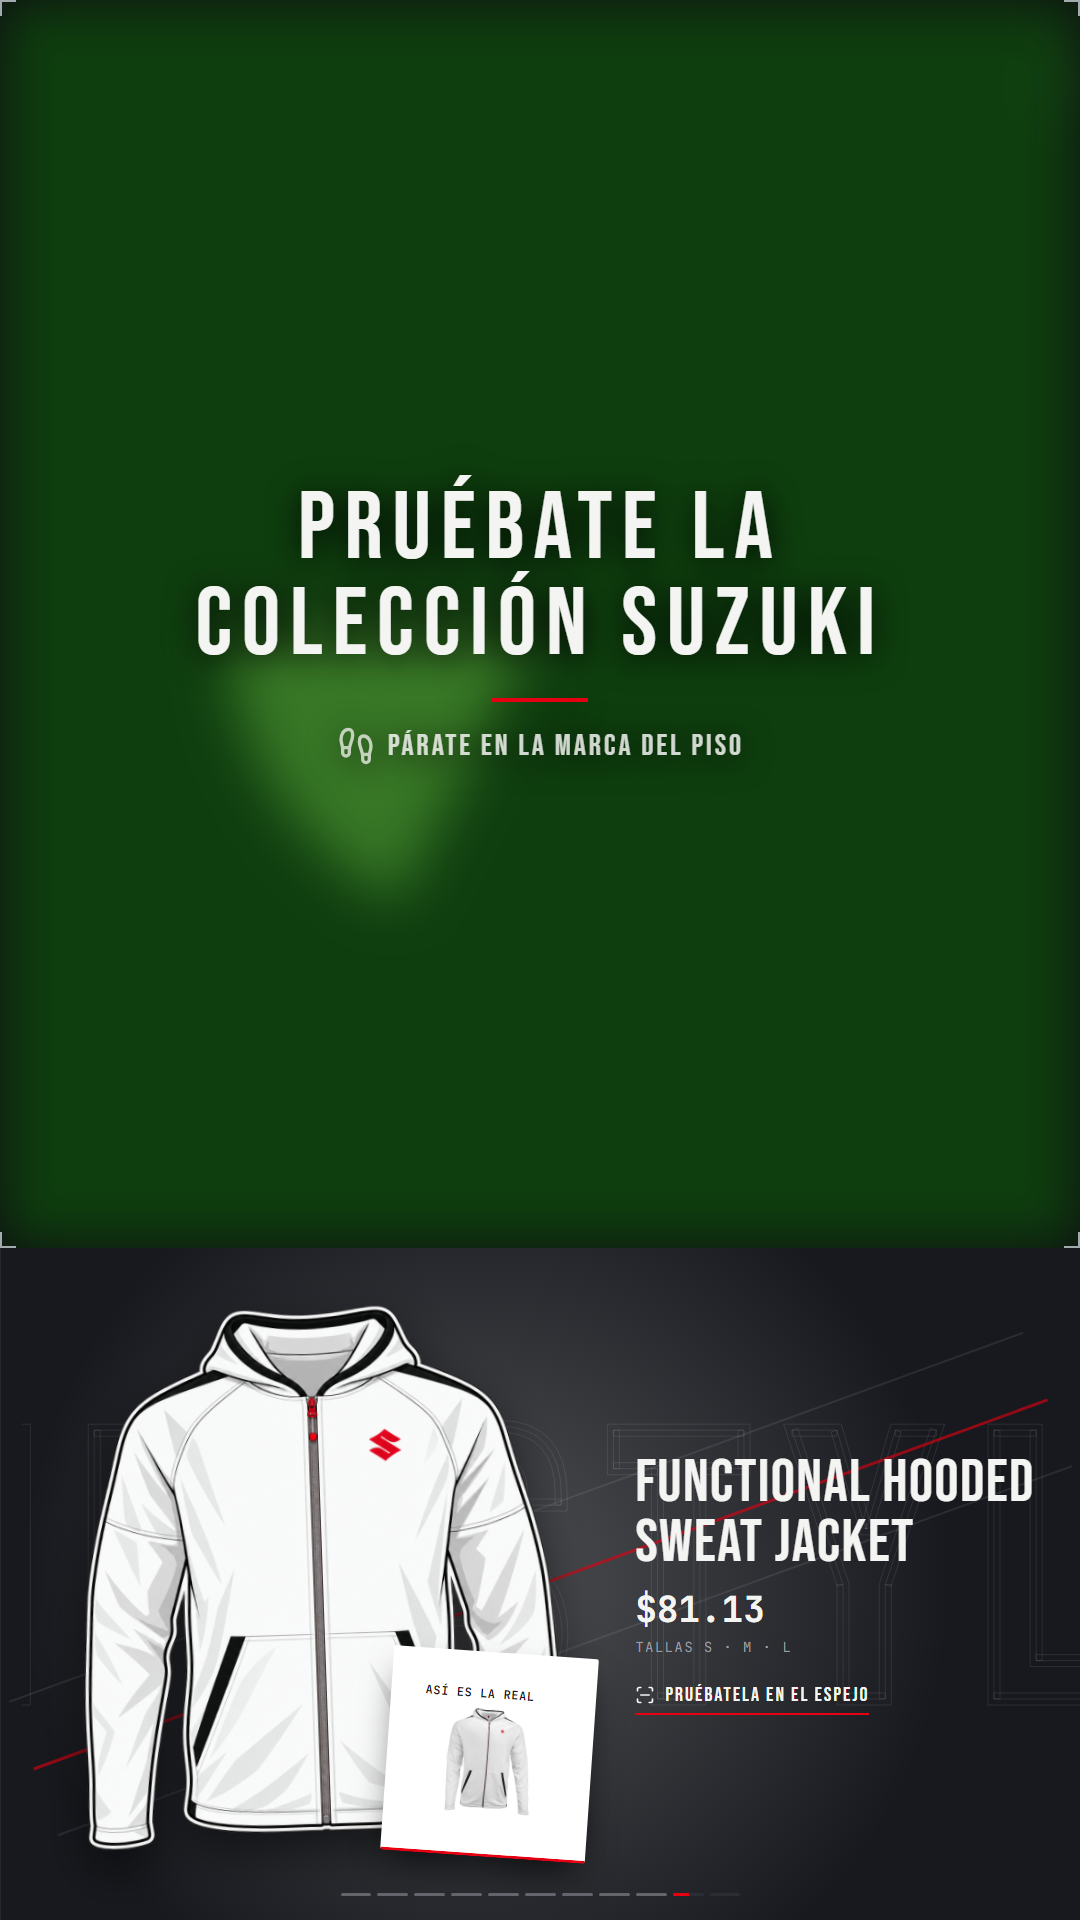
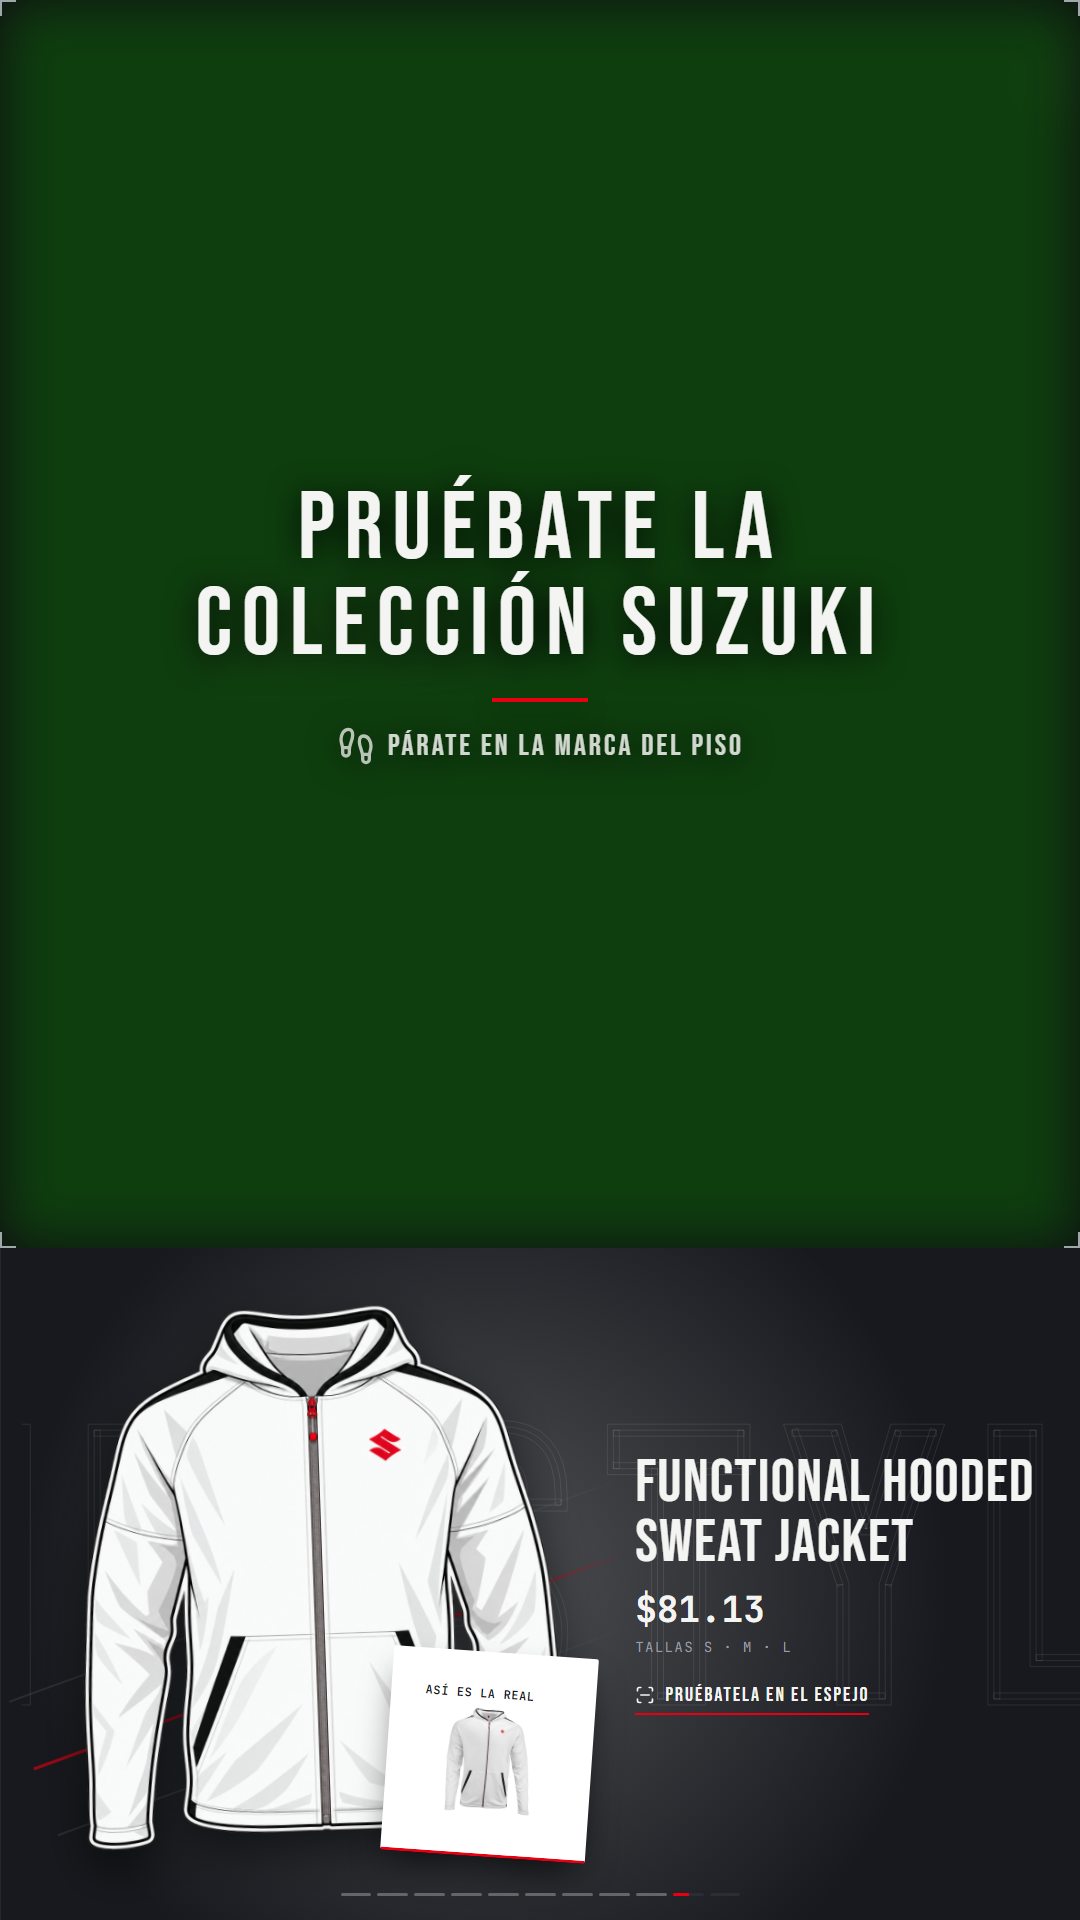
fix(kiosk): sincronizar foto de variante, optimizar precarga y refinar mascara y resumen

Changed region(s): [[0.2139, 0.3125, 0.4889, 0.4688]]

diff --git a/src/components/kiosk/showcase/ShowcaseSlide.tsx b/src/components/kiosk/showcase/ShowcaseSlide.tsx
@@ -26,10 +26,10 @@ export function ShowcaseSlide({ slide }: ShowcaseSlideProps) {
   const shouldReduceMotion = useReducedMotion();
   const mode = useLayoutStore((s) => s.mode);
 
-  const { garment, illustrations, photo, colorCount } = slide;
+  const { garment, illustrations, photos, colorCount } = slide;
   const hasIllustration = illustrations.length > 0;
 
-  // Handle multi-variant illustration cycling (e.g., 990F0-BKQJ5)
+  // Handle multi-variant cycling (e.g., 990F0-BKQJ5)
   const [variantIdx, setVariantIdx] = useState(0);
 
   useEffect(() => {
@@ -39,6 +39,9 @@ export function ShowcaseSlide({ slide }: ShowcaseSlideProps) {
     }, 1600);
     return () => clearInterval(interval);
   }, [shouldReduceMotion, illustrations.length]);
+
+  // Current photo for the active variant
+  const currentPhoto = photos[variantIdx] ?? photos[0];
 
   // Layer A: Background Glow Color Calculation
   const firstColor = garment.colors?.[0];
@@ -55,6 +58,11 @@ export function ShowcaseSlide({ slide }: ShowcaseSlideProps) {
     !firstColor || luminance < 0.12 || isReddish
       ? 'rgba(201, 206, 214, 0.12)'
       : `${firstColor}40`;
+
+  const stripesMask =
+    mode === 'portrait'
+      ? 'linear-gradient(90deg, #000 0%, #000 45%, transparent 58%)'
+      : 'linear-gradient(180deg, #000 0%, #000 45%, transparent 58%)';
 
   return (
     <motion.div
@@ -105,10 +113,14 @@ export function ShowcaseSlide({ slide }: ShowcaseSlideProps) {
         </span>
       </motion.div>
 
-      {/* Layer C: Three Diagonal Racing Stripes */}
+      {/* Layer C: Three Diagonal Racing Stripes with Fade Mask */}
       <div
         aria-hidden="true"
         className="absolute inset-0 pointer-events-none select-none overflow-hidden flex items-center justify-center"
+        style={{
+          maskImage: stripesMask,
+          WebkitMaskImage: stripesMask,
+        }}
       >
         <div className="w-[180%] h-36 flex flex-col justify-between -rotate-[20deg] opacity-70">
           <div className="h-[2px] w-full bg-[#C9CED6]/15" />
@@ -193,7 +205,9 @@ export function ShowcaseSlide({ slide }: ShowcaseSlideProps) {
                             : { rotateY: 90, opacity: 0 }
                         }
                         animate={
-                          shouldReduceMotion ? { opacity: 1 } : { rotateY: 0, opacity: 1 }
+                          shouldReduceMotion
+                            ? { rotateY: 0, opacity: 1 }
+                            : { rotateY: 0, opacity: 1 }
                         }
                         exit={
                           shouldReduceMotion
@@ -215,7 +229,7 @@ export function ShowcaseSlide({ slide }: ShowcaseSlideProps) {
                 </motion.div>
 
                 {/* Layer E: Real Photo Card Superimposed on bottom-right */}
-                {(photo.thumb || photo.full) && (
+                {currentPhoto?.thumb && (
                   <motion.div
                     className="absolute bottom-[2%] right-[2%] w-[36%] aspect-square bg-white rounded-sm p-[6%] shadow-[0_18px_36px_-10px_rgba(0,0,0,0.6)] border-b-[3px] border-b-brand-red flex flex-col justify-between z-20 pointer-events-none"
                     initial={
@@ -241,19 +255,20 @@ export function ShowcaseSlide({ slide }: ShowcaseSlideProps) {
                     <span className="font-mono text-[10px] sm:text-xs font-bold tracking-wider text-[#17191E] uppercase select-none">
                       {t('kiosk.attract.showcase.realOne', 'ASÍ ES LA REAL')}
                     </span>
-                    <div className="flex-1 w-full flex items-center justify-center overflow-hidden min-h-0">
-                      <img
-                        src={photo.thumb || photo.full}
-                        srcSet={
-                          photo.thumb && photo.full
-                            ? `${photo.thumb} 512w, ${photo.full} 2048w`
-                            : undefined
-                        }
-                        sizes="20vw"
-                        alt={garment.name}
-                        draggable={false}
-                        className="w-full h-full object-contain select-none pointer-events-none"
-                      />
+                    <div className="flex-1 w-full flex items-center justify-center overflow-hidden min-h-0 relative">
+                      <AnimatePresence mode="wait">
+                        <motion.img
+                          key={currentPhoto.thumb}
+                          src={currentPhoto.thumb}
+                          alt={garment.name}
+                          draggable={false}
+                          initial={{ opacity: 0 }}
+                          animate={{ opacity: 1 }}
+                          exit={{ opacity: 0 }}
+                          transition={{ duration: 0.2, ease: 'easeInOut' }}
+                          className="w-full h-full object-contain select-none pointer-events-none"
+                        />
+                      </AnimatePresence>
                     </div>
                   </motion.div>
                 )}
@@ -267,10 +282,10 @@ export function ShowcaseSlide({ slide }: ShowcaseSlideProps) {
                 transition={{ duration: 0.4 }}
               >
                 <img
-                  src={photo.thumb || photo.full}
+                  src={photos[0]?.thumb || photos[0]?.full}
                   srcSet={
-                    photo.thumb && photo.full
-                      ? `${photo.thumb} 512w, ${photo.full} 2048w`
+                    photos[0]?.thumb && photos[0]?.full
+                      ? `${photos[0].thumb} 512w, ${photos[0].full} 2048w`
                       : undefined
                   }
                   sizes="40vw"

diff --git a/src/components/kiosk/showcase/buildShowcaseSlides.ts b/src/components/kiosk/showcase/buildShowcaseSlides.ts
@@ -6,7 +6,7 @@ export type ShowcaseSlide =
       kind: 'garment';
       garment: Garment;
       illustrations: string[]; // 0, 1 o 2 URLs (2 cuando hay variantes con ilustración)
-      photo: { thumb?: string; full?: string };
+      photos: { thumb?: string; full?: string }[]; // en paralelo a illustrations (mismo índice = misma variante)
       colorCount: number; // variants.length si >1, si no colors.length
     }
   | {
@@ -31,8 +31,10 @@ export function buildShowcaseSlides(catalog: Garment[]): ShowcaseSlide[] {
   const summaryIllustrations: string[] = [];
 
   for (const garment of maxGarments) {
-    // 1. Resolve illustrations
+    // 1. Resolve illustrations and photos in parallel
     const illustrations: string[] = [];
+    const photos: { thumb?: string; full?: string }[] = [];
+
     if (garment.variants && garment.variants.length > 0) {
       for (const v of garment.variants) {
         const resolved = resolveGarmentIllustration(garment, v.id);
@@ -40,6 +42,25 @@ export function buildShowcaseSlides(catalog: Garment[]): ShowcaseSlide[] {
           const formatted = prefixBaseUrl(resolved.illustrationUrl);
           if (formatted && !illustrations.includes(formatted)) {
             illustrations.push(formatted);
+            const thumb = prefixBaseUrl(v.thumbnailUrl || garment.thumbnailUrl);
+            const full = prefixBaseUrl(v.overlayUrl || garment.overlayUrl);
+            photos.push({
+              ...(thumb ? { thumb } : {}),
+              ...(full ? { full } : {}),
+            });
+          }
+        }
+      }
+      // If no variants had illustrations, fallback to variant photos
+      if (photos.length === 0) {
+        for (const v of garment.variants) {
+          const thumb = prefixBaseUrl(v.thumbnailUrl || garment.thumbnailUrl);
+          const full = prefixBaseUrl(v.overlayUrl || garment.overlayUrl);
+          if (thumb || full) {
+            photos.push({
+              ...(thumb ? { thumb } : {}),
+              ...(full ? { full } : {}),
+            });
           }
         }
       }
@@ -51,18 +72,18 @@ export function buildShowcaseSlides(catalog: Garment[]): ShowcaseSlide[] {
           illustrations.push(formatted);
         }
       }
+      const thumb = prefixBaseUrl(garment.thumbnailUrl);
+      const full = prefixBaseUrl(garment.overlayUrl);
+      if (thumb || full) {
+        photos.push({
+          ...(thumb ? { thumb } : {}),
+          ...(full ? { full } : {}),
+        });
+      }
     }
 
-    // 2. Resolve photo
-    const firstVariant = garment.variants?.[0];
-    const rawThumb = firstVariant?.thumbnailUrl || garment.thumbnailUrl;
-    const rawFull = firstVariant?.overlayUrl || garment.overlayUrl;
-
-    const thumb = prefixBaseUrl(rawThumb);
-    const full = prefixBaseUrl(rawFull);
-
     // Fallback: Skip if no illustration and no photo
-    if (illustrations.length === 0 && !thumb && !full) {
+    if (illustrations.length === 0 && photos.length === 0) {
       continue;
     }
 
@@ -76,10 +97,7 @@ export function buildShowcaseSlides(catalog: Garment[]): ShowcaseSlide[] {
       kind: 'garment',
       garment,
       illustrations,
-      photo: {
-        ...(thumb ? { thumb } : {}),
-        ...(full ? { full } : {}),
-      },
+      photos,
       colorCount,
     });
 

diff --git a/src/components/kiosk/showcase/ShowcaseSummary.tsx b/src/components/kiosk/showcase/ShowcaseSummary.tsx
@@ -15,6 +15,11 @@ export function ShowcaseSummary({ slide }: ShowcaseSummaryProps) {
 
   const { count, minPriceCents, illustrations } = slide;
 
+  const stripesMask =
+    mode === 'portrait'
+      ? 'linear-gradient(90deg, #000 0%, #000 45%, transparent 58%)'
+      : 'linear-gradient(180deg, #000 0%, #000 45%, transparent 58%)';
+
   return (
     <motion.div
       className="absolute inset-0 w-full h-full bg-surface text-fg select-none overflow-hidden"
@@ -65,10 +70,14 @@ export function ShowcaseSummary({ slide }: ShowcaseSummaryProps) {
         </span>
       </motion.div>
 
-      {/* Three Diagonal Racing Stripes */}
+      {/* Three Diagonal Racing Stripes with Fade Mask */}
       <div
         aria-hidden="true"
         className="absolute inset-0 pointer-events-none select-none overflow-hidden flex items-center justify-center"
+        style={{
+          maskImage: stripesMask,
+          WebkitMaskImage: stripesMask,
+        }}
       >
         <div className="w-[180%] h-36 flex flex-col justify-between -rotate-[20deg] opacity-70">
           <div className="h-[2px] w-full bg-[#C9CED6]/15" />
@@ -167,10 +176,10 @@ export function ShowcaseSummary({ slide }: ShowcaseSummaryProps) {
           <div
             className={`flex flex-col ${
               mode === 'portrait' ? 'items-start' : 'items-center'
-            } gap-2`}
+            } gap-1 font-mono font-bold tabular-nums text-2xl md:text-3xl text-fg`}
           >
-            <span className="font-mono font-bold tabular-nums text-2xl md:text-3xl text-fg">
-              {t('kiosk.attract.showcase.summaryCount', { count })} ·{' '}
+            <span>{t('kiosk.attract.showcase.summaryCount', { count })}</span>
+            <span className="whitespace-nowrap">
               {t('kiosk.attract.showcase.summaryFrom', 'DESDE')} $
               {(minPriceCents / 100).toFixed(2)}
             </span>

diff --git a/tests/unit/attract-showcase.test.tsx b/tests/unit/attract-showcase.test.tsx
@@ -135,10 +135,12 @@ describe('Attract Showcase & Impeccable Improvements', () => {
       );
       expect(garmentSlides).toHaveLength(10);
 
-      // 990F0-BKQJ5 has 2 variants with illustrations
+      // 990F0-BKQJ5 has 2 variants with illustrations and photos
       const bkqj5Slide = garmentSlides.find((s) => s.garment.id === '990F0-BKQJ5');
       expect(bkqj5Slide).toBeDefined();
       expect(bkqj5Slide?.illustrations).toHaveLength(2);
+      expect(bkqj5Slide?.photos).toHaveLength(2);
+      expect(bkqj5Slide?.photos[1]?.thumb).toMatch(/990F0-BKQJ5_2\.thumb\.png$/);
       expect(bkqj5Slide?.colorCount).toBe(2);
 
       // The other 9 garments have 1 illustration
@@ -165,8 +167,10 @@ describe('Attract Showcase & Impeccable Improvements', () => {
           s.illustrations.forEach((url) => {
             expect(url.startsWith(baseUrl)).toBe(true);
           });
-          if (s.photo.thumb) expect(s.photo.thumb.startsWith(baseUrl)).toBe(true);
-          if (s.photo.full) expect(s.photo.full.startsWith(baseUrl)).toBe(true);
+          s.photos.forEach((p) => {
+            if (p.thumb) expect(p.thumb.startsWith(baseUrl)).toBe(true);
+            if (p.full) expect(p.full.startsWith(baseUrl)).toBe(true);
+          });
         } else {
           s.illustrations.forEach((url) => {
             expect(url.startsWith(baseUrl)).toBe(true);
@@ -193,7 +197,7 @@ describe('Attract Showcase & Impeccable Improvements', () => {
       expect(slides).toHaveLength(2); // 1 garment + 1 summary
       const garmentSlide = slides[0] as Extract<ShowcaseSlide, { kind: 'garment' }>;
       expect(garmentSlide.illustrations).toEqual([]);
-      expect(garmentSlide.photo.thumb).toBeDefined();
+      expect(garmentSlide.photos[0]?.thumb).toBeDefined();
 
       useGarmentStore.setState({ catalog: [customGarment] });
       render(<AttractPanel />);

diff --git a/scripts/capture_vitrina.ts b/scripts/capture_vitrina.ts
@@ -94,8 +94,8 @@ async function main() {
     const pathD1 = path.join(OUT_DIR, 'd_1080x1920_portrait_bkqj5_var1.png');
     await pageStream.screenshot({ path: pathD1 });
     console.log(`Saved: ${pathD1}`);
-    // Wait for flip to variant 2 (negra, flips at ~1.6s)
-    await pageStream.waitForTimeout(1600);
+    // Wait for flip to variant 2 (negra, flips at 1.6s from slide mount, photo fades in 200ms)
+    await pageStream.waitForTimeout(1400);
     const pathD2 = path.join(OUT_DIR, 'd_1080x1920_portrait_bkqj5_var2.png');
     await pageStream.screenshot({ path: pathD2 });
     console.log(`Saved: ${pathD2}`);

diff --git a/src/components/kiosk/AttractPanel.tsx b/src/components/kiosk/AttractPanel.tsx
@@ -26,8 +26,9 @@ export function AttractPanel() {
     const urlsToPreload: string[] = [];
     if (nextSlide.kind === 'garment') {
       urlsToPreload.push(...nextSlide.illustrations);
-      if (nextSlide.photo.thumb) urlsToPreload.push(nextSlide.photo.thumb);
-      if (nextSlide.photo.full) urlsToPreload.push(nextSlide.photo.full);
+      nextSlide.photos.forEach((p) => {
+        if (p.thumb) urlsToPreload.push(p.thumb);
+      });
     } else if (nextSlide.kind === 'summary') {
       urlsToPreload.push(...nextSlide.illustrations);
     }
